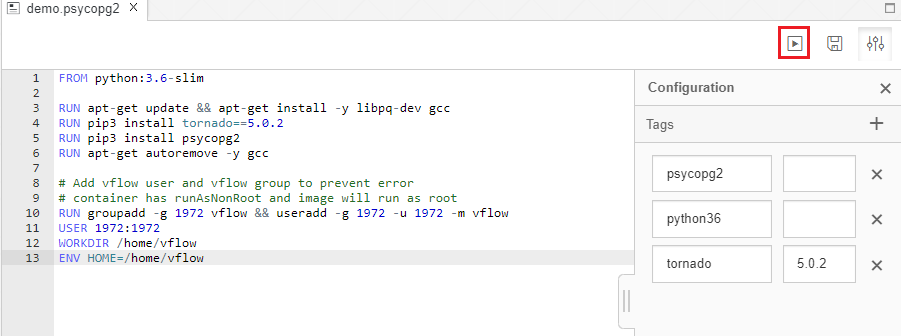
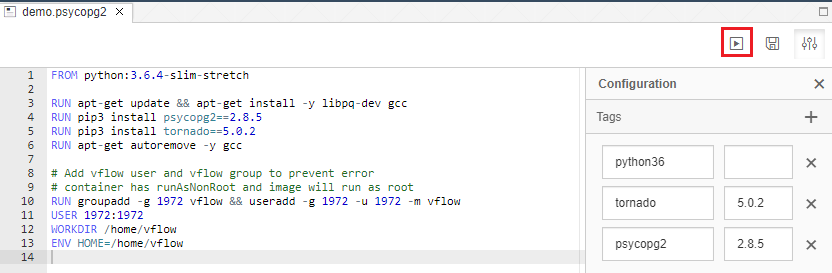
Update reame and a few images

diff --git a/README.md b/README.md
@@ -5,6 +5,51 @@ For more details on how to develop a custom operator, please read the blog by  [
 ## 1. Create a Dockerfile
 The custom Postgres operator requires python library [Psycopg2](https://www.psycopg.org/) which is a PostgreSQL database adapter for Python. To use it, we need a custom Docker image that provides Python with that library. You can refer [creating dockerfiles](https://help.sap.com/viewer/aff95eebc2e04c44816e6ff0d21c3c88/3.0.latest/en-US/62d1df08fa384d0e88bbe9b7cbd2c3fb.html) for the detailed steps. 
 - Open the **Repository** tab in the SAP Data Intelligence Modeler, navigate to the **dockerfiles** section, right-click and click on **Create Docker File**:
+
 ![](images/dockerfileChooseFolder.png)
+
 - Type in a **Name** for the Docker File, in our case we type "demo/psycopg2" and click **OK**:
+
 ![](images/dockerfileCreateDockerfile.png)
+
+
+A new tab opens where you can describe the details of the Dockerfile.
+- In the Code Editor, paste the following Dockerfile instructions:
+
+```
+FROM python:3.6.4-slim-stretch
+
+RUN apt-get update && apt-get install -y libpq-dev gcc
+RUN pip3 install psycopg2==2.8.5
+RUN pip3 install tornado==5.0.2
+RUN apt-get autoremove -y gcc
+
+# Add vflow user and vflow group to prevent error
+# container has runAsNonRoot and image will run as root
+RUN groupadd -g 1972 vflow && useradd -g 1972 -u 1972 -m vflow
+USER 1972:1972
+WORKDIR /home/vflow
+ENV HOME=/home/vflow
+```
+
+Next, provide tags for the Docker image to describe its properties:
+- Open the Docker File Configuration Pane by clicking on the icon in the upper right corner:
+
+![](images/dockerfileOpenTag.png)
+
+- Add new **Tags** by clicking on the "**+**" icon:
+
+![](images/dockerfileAddTags.png)
+
+- Add the **Tag** "python36": We use this tag to declare that our Docker image includes Python version 3.6.
+- Add the **Tag** “tornado” with version 5.0.2 as this is required by the updated Python Subengine.
+- Add the **Tag** “psycopg2” with version 2.8.5: We use this tag to declare that the Python library psycopg2 is available in the Docker image.
+- Save the Dockerfile by clicking on Save in the upper right corner:
+
+![](images/dockerfileSave.png)
+
+- Build the Docker Image by clicking on the Build icon in the upper right side:
+
+![](images/dockerfileBuild.png)
+
+You can monitor the status of the Docker build process from the Log tab in the bottom pane:
